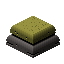
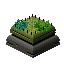
stuff

Changed region(s): [[0.1875, 0.2188, 0.8438, 0.625], [0.1875, 0.4688, 0.2188, 0.5]]

diff --git a/public/player.js b/public/player.js
@@ -1196,12 +1196,12 @@ function playerSkillsUTChanges() {
             }
             if (energWeapBonus) {
                 if (Object.keys(unit.weapon).length >= 3) {
-                    if (unit.weapon.name.includes('plasma') || unit.weapon.name.includes('laser') || unit.weapon.name.includes('Electro') || unit.weapon.name.includes('Lightning') || unit.weapon.name.includes('BFG') || unit.weapon.name.includes('électrique') || unit.weapon.name.includes('Taser')) {
+                    if (unit.weapon.name.includes('plasma') || unit.weapon.name.includes('laser') || unit.weapon.name.includes('Electro') || unit.weapon.name.includes('Lightning') || unit.weapon.name.includes('BFG') || unit.weapon.name.includes('électrique') || unit.weapon.name.includes('Taser') || unit.weapon.name === 'Barbelés (taser)') {
                         unit.weapon.power = Math.ceil(unit.weapon.power*(energComp+15)/15);
                     }
                 }
                 if (Object.keys(unit.weapon2).length >= 3) {
-                    if (unit.weapon2.name.includes('plasma') || unit.weapon2.name.includes('laser') || unit.weapon2.name.includes('Electro') || unit.weapon2.name.includes('Lightning') || unit.weapon2.name.includes('BFG') || unit.weapon2.name.includes('électrique')) {
+                    if (unit.weapon2.name.includes('plasma') || unit.weapon2.name.includes('laser') || unit.weapon2.name.includes('Electro') || unit.weapon2.name.includes('Lightning') || unit.weapon2.name.includes('BFG') || unit.weapon2.name.includes('électrique') || unit.weapon2.name.includes('Taser') || unit.weapon2.name === 'Barbelés (taser)') {
                         unit.weapon2.power = Math.ceil(unit.weapon2.power*(energComp+15)/15);
                     }
                 }

diff --git a/public/firegets.js b/public/firegets.js
@@ -2830,6 +2830,12 @@ function weaponAdj(weapon,bat,wn) {
     if (bat.range < thisWeapon.range) {
         bat.range = thisWeapon.range;
     }
+    // Electric Fence (barbelés taser)
+    if (thisWeapon.name === 'Barbelés (taser)') {
+        if (playerInfos.bldList.includes('Centrale SMR')) {
+            thisWeapon.power = thisWeapon.power+2;
+        }
+    }
     // ERUPTIONS
     if (thisWeapon.name === 'Eruption') {
         thisWeapon.power = thisWeapon.power+Math.floor((zone[0].mapDiff-1)/1.8/22*thisWeapon.power);

diff --git a/public/nextweek.js b/public/nextweek.js
@@ -634,6 +634,13 @@ function eventBouffe(time,sim,quiet) {
                 tagDelete(bat,'construction');
             }
         }
+        if (bat.type === 'Appartements') {
+            if (!bat.tags.includes('construction')) {
+                plantesProd = plantesProd+Math.round(18*time/21);
+            } else {
+                tagDelete(bat,'construction');
+            }
+        }
         if (batType.cat === 'buildings') {
             bldHeat = bldHeat+batType.hp;
         }

diff --git a/public/maploader.js b/public/maploader.js
@@ -473,6 +473,13 @@ function getBatPic(bat,batType) {
             batPic = 'dogzclone';
         }
     }
+    if (batType.name === 'Dortoirs') {
+        if (bat.eq === 'confort') {
+            batPic = 'dortoir-c';
+        } else if (bat.eq === 'mezzanine') {
+            batPic = 'dortoir-m';
+        }
+    }
     if (batType.pic.includes('-v1')) {
         if (playerInfos.pseudo === 'Mapedit') {
             // reste v1;
